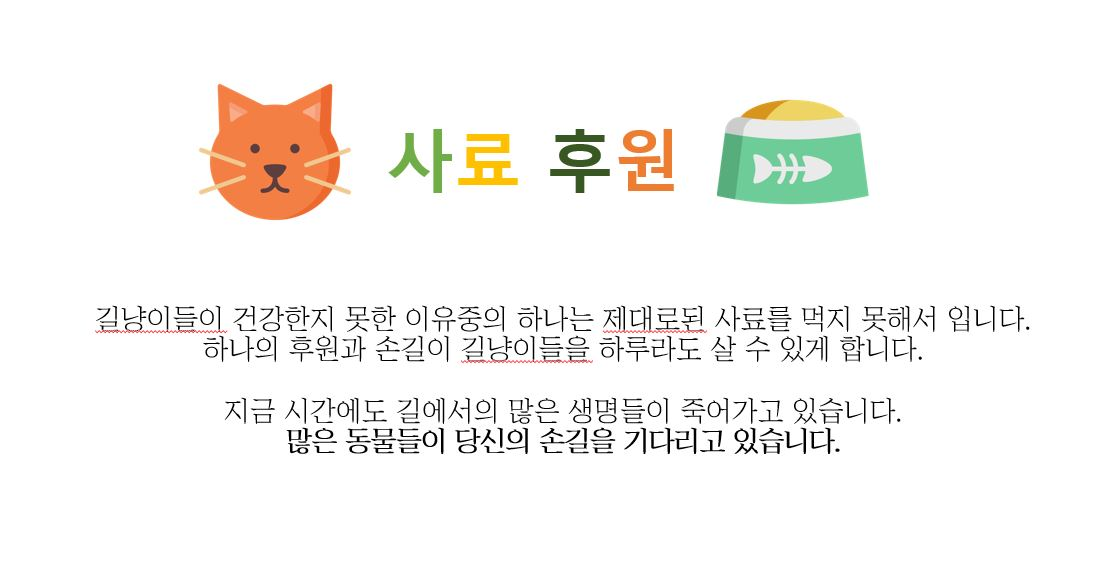
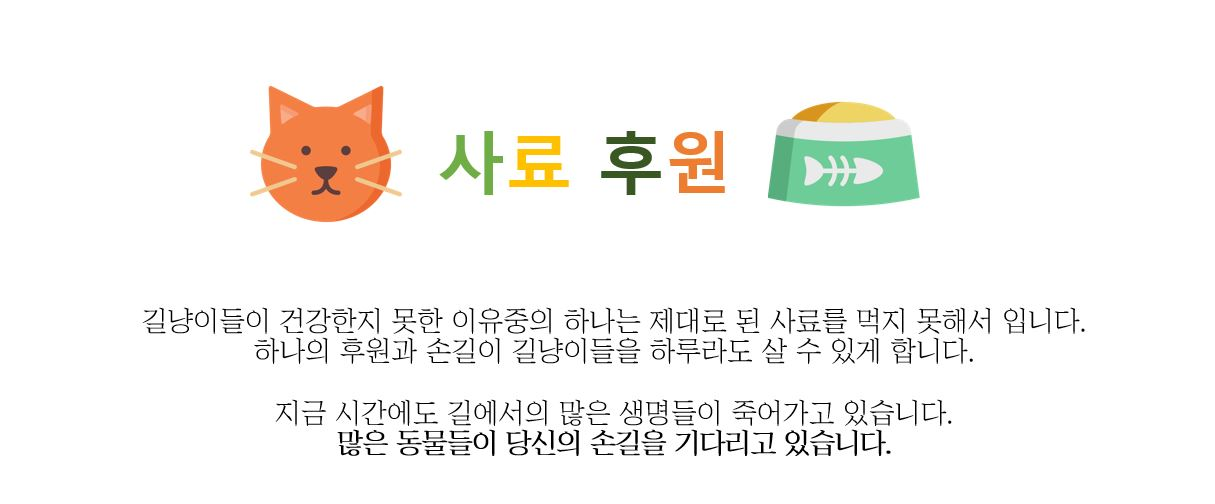
밍

Changed region(s): [[0.0916, 0.5357, 0.9164, 0.9226], [0.1833, 0.1488, 0.7942, 0.4464]]

diff --git a/djangoproject/myapp/templates/support.html b/djangoproject/myapp/templates/support.html
@@ -82,6 +82,7 @@
     <!-- END nav -->
 
     <!-- <div class="js-fullheight"> -->
+        
     <div class="hero-wrap js-fullheight">
         <div class="overlay"></div>
         <div id="particles-js"></div>
@@ -89,10 +90,10 @@
             <div class="row no-gutters slider-text align-items-center justify-content-center"
                 data-scrollax-parent="true">
                 
-                    <div class="container-fluid">
+                    <div class="container">
 
                         
-                        <div class="panel panel-default">
+                        <div class="panel panel-default" style="margin-top : 10%">
                             <div class="panel-body">
                                     <div>
                                     <center>
@@ -109,7 +110,7 @@
     
                         </div>
 
-                        <div class="panel panel-default">
+                        <div class="panel panel-default" style="margin-bottom : 10%">
                             <div class="panel-body">
                                             <div>
                                             <center>
